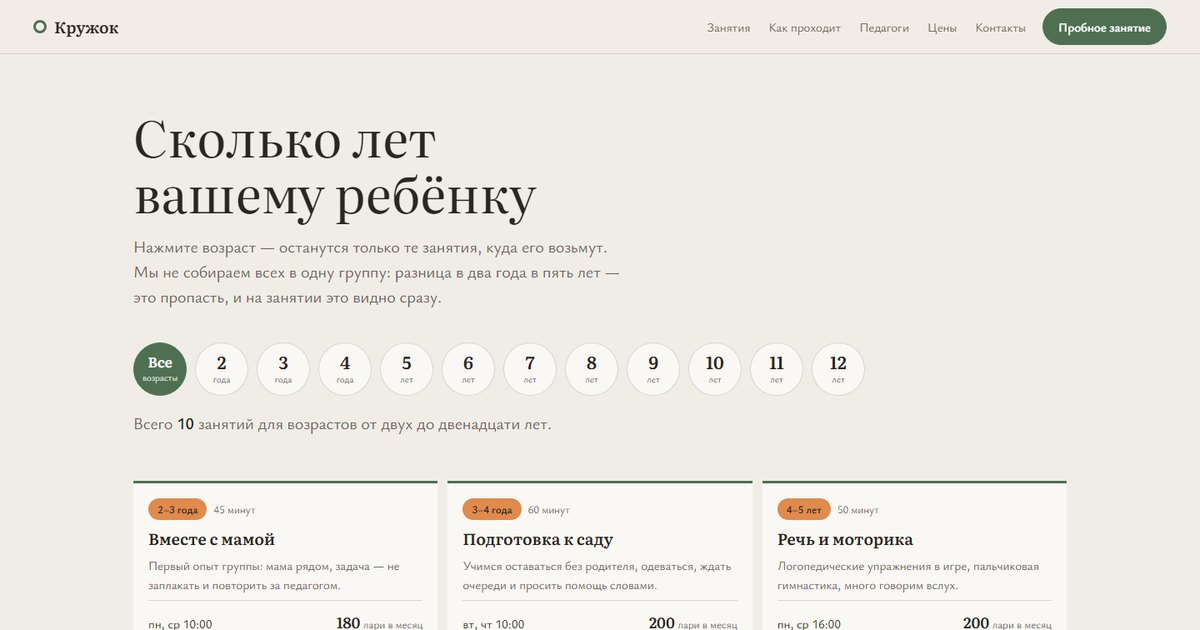
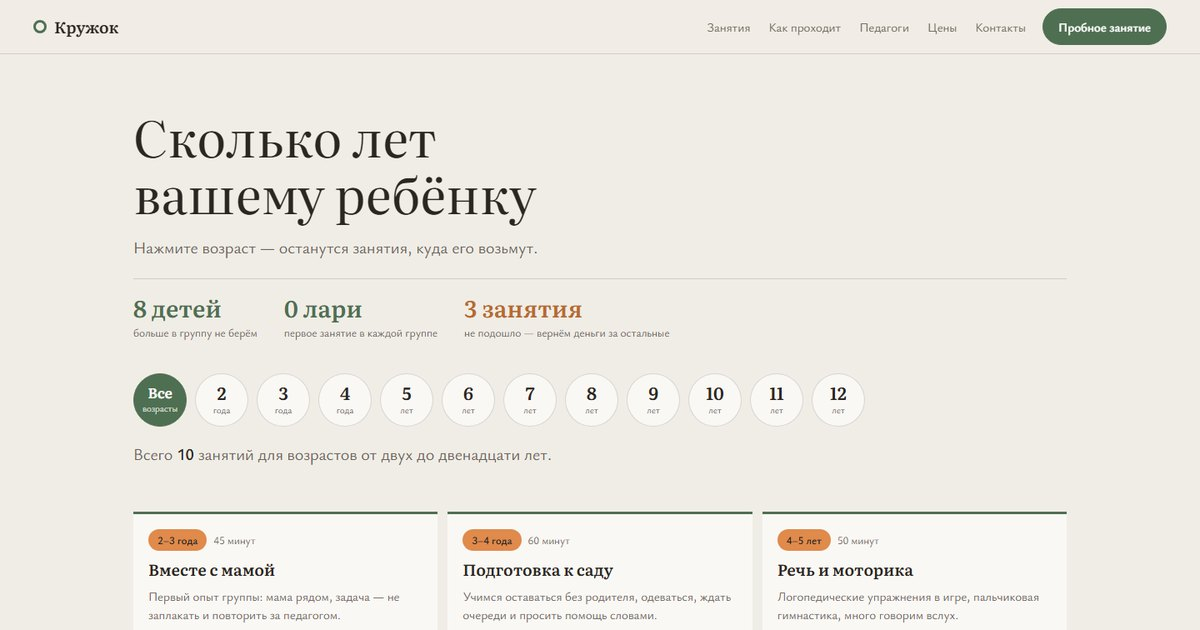
Новая подача: карточки, короче текст, движение

diff --git a/index.html b/index.html
@@ -4,7 +4,7 @@
 <meta charset="utf-8">
 <meta name="viewport" content="width=device-width, initial-scale=1, viewport-fit=cover">
 <title>Кружок — детский центр (демо open-sites.io)</title>
-<meta name="description" content="Демо-сайт студии open-sites.io: детский центр «Кружок». Выбираете возраст ребёнка — остаются только подходящие занятия с днями, временем и ценой. Бизнес вымышленный.">
+<meta name="description" content="Демо-сайт студии open-sites.io: детский центр «Кружок». Выбираете возраст ребёнка — остаются только подходящие занятия с днями, временем и ценой. ">
 <meta name="robots" content="noindex">
 <meta name="theme-color" content="#F0EDE6">
 <link rel="canonical" href="https://fr33roman.github.io/kruzhok/">
@@ -75,7 +75,7 @@ button,input,select,textarea{font:inherit;color:inherit}
   padding:10px var(--gut);background:rgba(240,237,230,.95);border-bottom:1px solid var(--line);
   backdrop-filter:blur(8px)}
 .mark{display:inline-flex;align-items:center;gap:9px;font-family:var(--disp);font-weight:600;font-size:19px;
-  text-decoration:none}
+  text-decoration:none;min-height:44px;padding:7px 0}
 .mark i{width:16px;height:16px;border:3px solid var(--moss);border-radius:50%;display:inline-block}
 .nav{display:none;gap:22px;margin-left:auto;font-size:15px;color:var(--soft)}
 .nav a{text-decoration:none}
@@ -94,6 +94,20 @@ h3{font-family:var(--disp);font-weight:600;font-size:19px;line-height:1.3}
 .hero{max-width:1200px;margin:0 auto;padding:clamp(32px,4.5vw,64px) var(--gut) 0}
 h1{font-family:var(--disp);font-weight:400;font-size:clamp(30px,4.4vw,60px);line-height:1.12;max-width:16ch}
 .hero p{margin-top:18px;font-size:clamp(17px,1.4vw,20px);line-height:1.5;max-width:58ch;color:var(--soft)}
+/* Три цифры рядом: самое важное читается за секунду */
+.trust{display:flex;flex-wrap:wrap;gap:14px 32px;margin-top:22px;padding-top:20px;border-top:1px solid var(--line)}
+.trust div{min-width:126px}
+.trust b{display:block;font-family:var(--disp);font-weight:600;font-size:28px;line-height:1;color:var(--moss)}
+.trust b.is-apricot{color:#B86A2E}
+.trust span{display:block;margin-top:7px;color:var(--soft);font-size:13.5px;line-height:1.35}
+
+/* Появление блоков: 700 мс, один раз. Без скрипта всё видно сразу. */
+.js .reveal{opacity:0;transform:translateY(24px);transition:opacity .7s ease,transform .7s ease}
+.js .reveal.in{opacity:1;transform:none}
+@media (prefers-reduced-motion:reduce){
+  .js .reveal{opacity:1;transform:none;transition:none}
+  .flow li:hover,.t:hover,.g:hover{transform:none}
+}
 
 /* ============ круги возрастов ============ */
 .ages{display:flex;flex-wrap:wrap;gap:10px;margin-top:clamp(26px,3vw,40px)}
@@ -128,36 +142,58 @@ h1{font-family:var(--disp);font-weight:400;font-size:clamp(30px,4.4vw,60px);line
 .g__p{font-family:var(--disp);font-weight:600;font-size:18px;white-space:nowrap}
 .g__p i{font-family:var(--text);font-style:normal;font-size:13px;font-weight:400;color:var(--soft)}
 .g[hidden]{display:none}
-.g__go{margin-top:10px;align-self:flex-start;min-height:40px;padding:0 16px;font-size:14px}
+.g{transition:transform .3s ease,box-shadow .3s ease}
+.g:hover{transform:translateY(-6px);box-shadow:0 18px 40px -20px rgba(42,38,34,.4)}
+.g__go{margin-top:10px;align-self:flex-start;min-height:44px;padding:0 18px;font-size:14px}
 
 /* ============ как проходит ============ */
-.flow{border-top:1px solid var(--ink);margin-top:22px}
-.flow li{padding:16px 0;border-bottom:1px solid var(--line)}
-.flow p{margin-top:5px;color:var(--soft);font-size:15px;line-height:1.55}
+.flow{display:grid;grid-template-columns:1fr;gap:14px;margin-top:22px;counter-reset:step}
+@media (min-width:640px){.flow{grid-template-columns:repeat(2,minmax(0,1fr))}}
+@media (min-width:1080px){.flow{grid-template-columns:repeat(3,minmax(0,1fr))}}
+.flow li{position:relative;background:var(--paper);border:1px solid var(--line);border-radius:14px;
+  box-shadow:0 8px 22px -14px rgba(42,38,34,.32);padding:22px 20px;
+  transition:transform .3s ease,box-shadow .3s ease}
+.flow li:hover{transform:translateY(-6px);box-shadow:0 18px 40px -20px rgba(42,38,34,.4)}
+.flow li::before{counter-increment:step;content:counter(step,decimal-leading-zero);
+  display:block;font-family:var(--disp);font-size:24px;color:var(--apricot);margin-bottom:8px;line-height:1}
+.flow p{margin-top:6px;color:var(--soft);font-size:15px;line-height:1.5}
 
 /* ============ педагоги ============ */
-.teachers{border-top:1px solid var(--ink);margin-top:22px}
-.t{display:grid;grid-template-columns:minmax(0,1fr) auto;gap:2px 16px;padding:15px 0;
-  border-bottom:1px solid var(--line);align-items:baseline}
+.teachers{display:grid;grid-template-columns:1fr;gap:14px;margin-top:22px}
+@media (min-width:620px){.teachers{grid-template-columns:repeat(2,minmax(0,1fr))}}
+@media (min-width:1080px){.teachers{grid-template-columns:repeat(5,minmax(0,1fr))}}
+.t{display:grid;gap:6px;background:var(--paper);border:1px solid var(--line);border-radius:14px;
+  box-shadow:0 8px 22px -14px rgba(42,38,34,.32);padding:20px 18px;
+  transition:transform .3s ease,box-shadow .3s ease}
+.t:hover{transform:translateY(-6px);box-shadow:0 18px 40px -20px rgba(42,38,34,.4)}
 .t__n{font-family:var(--disp);font-weight:600;font-size:clamp(20px,2.2vw,26px);line-height:1.1}
-.t__d{color:var(--soft);font-size:14px;white-space:nowrap}
-.t__s{grid-column:1/-1;color:var(--soft);font-size:15px}
-@media (min-width:760px){.t{grid-template-columns:210px minmax(0,1fr) auto}.t__s{grid-column:2/3}}
+.t__d{display:inline-block;margin-top:6px;padding:5px 11px;border-radius:999px;justify-self:start;
+  background:rgba(79,111,82,.1);color:var(--moss-d);font-size:13px;white-space:nowrap}
+.t__s{color:var(--soft);font-size:15px;line-height:1.4}
 
 /* ============ место ============ */
 .place{display:grid;grid-template-columns:1fr;gap:24px;margin-top:22px}
 @media (min-width:900px){.place{grid-template-columns:minmax(0,1fr) minmax(0,1fr);gap:40px;align-items:start}}
-.place ul{border-top:1px solid var(--ink)}
-.place li{padding:13px 0;border-bottom:1px solid var(--line);font-size:16px;line-height:1.5}
+.place ul{display:grid;gap:10px}
+.place li{position:relative;background:var(--paper);border:1px solid var(--line);border-radius:12px;
+  padding:14px 16px 14px 40px;font-size:16px;line-height:1.4}
+.place li::before{content:"";position:absolute;left:16px;top:21px;width:11px;height:2px;background:var(--apricot)}
 .place img{width:100%;border-radius:10px;background:var(--line);filter:brightness(1.05) saturate(.95)}
 .place .ph2 img{margin-top:12px;height:clamp(140px,16vw,200px);object-fit:cover}
 figcaption{margin-top:10px;color:var(--soft);font-size:13px;line-height:1.5}
 
 /* ============ цены ============ */
-.pr{border-top:1px solid var(--ink);margin-top:22px}
-.pr li{display:grid;grid-template-columns:minmax(0,1fr) auto;gap:8px 16px;padding:14px 0;
+.pr{max-width:820px;margin-top:22px;background:var(--paper);border:1px solid var(--line);
+  border-radius:16px;box-shadow:0 8px 22px -14px rgba(42,38,34,.32);overflow:hidden}
+/* Наводишь на строку — соседние гаснут: помогает не потерять нужную глазами */
+.pr:hover li{opacity:.45}
+.pr li:hover{opacity:1;background:rgba(79,111,82,.07)}
+@media (hover:none){.pr:hover li{opacity:1}}
+.pr li{display:grid;grid-template-columns:minmax(0,1fr) auto;gap:8px 16px;padding:15px 20px;
+  transition:opacity .3s ease,background .3s ease;
   border-bottom:1px solid var(--line);align-items:baseline}
-.pr span:last-child{font-weight:600;white-space:nowrap}
+.pr span:last-child{font-family:var(--disp);font-weight:600;font-size:17px;color:var(--moss-d);white-space:nowrap}
+.pr li:last-child{border-bottom:0}
 
 /* ============ форма ============ */
 .book{display:grid;grid-template-columns:1fr;gap:26px;margin-top:22px}
@@ -178,9 +214,9 @@ figcaption{margin-top:10px;color:var(--soft);font-size:13px;line-height:1.5}
 .done__b{font-family:var(--disp);font-size:clamp(22px,3vw,30px);line-height:1.2}
 .done p+p{margin-top:12px}
 .noscript{grid-column:1/-1;color:var(--soft);font-size:15px}
-.side dl{border-top:1px solid var(--ink)}
-.side div{padding:12px 0;border-bottom:1px solid var(--line)}
-.side dt{color:var(--soft);font-size:13px}
+.side dl{display:grid;gap:10px}
+.side div{background:var(--paper);border:1px solid var(--line);border-radius:12px;padding:14px 16px}
+.side dt{color:var(--moss-d);font-size:12px;letter-spacing:.1em;text-transform:uppercase}
 .side dd{margin-top:3px;font-size:16px;line-height:1.4}
 
 /* ============ подвал ============ */
@@ -212,8 +248,13 @@ figcaption{margin-top:10px;color:var(--soft);font-size:13px;line-height:1.5}
   <!-- ============ 1. герой и фильтр ============ -->
   <section class="hero" aria-labelledby="h1">
     <h1 id="h1">Сколько лет вашему ребёнку</h1>
-    <p>Нажмите возраст — останутся только те занятия, куда его возьмут. Мы не собираем всех
-      в одну группу: разница в два года в пять лет — это пропасть, и на занятии это видно сразу.</p>
+    <p>Нажмите возраст — останутся занятия, куда его возьмут.</p>
+
+    <div class="trust">
+      <div><b>8 детей</b><span>больше в группу не берём</span></div>
+      <div><b>0 лари</b><span>первое занятие в каждой группе</span></div>
+      <div><b class="is-apricot">3 занятия</b><span>не подошло — вернём деньги за остальные</span></div>
+    </div>
 
     <div class="ages" id="ages" role="group" aria-label="Возраст ребёнка"></div>
     <p class="count" id="count"></p>
@@ -289,26 +330,25 @@ figcaption{margin-top:10px;color:var(--soft);font-size:13px;line-height:1.5}
   </section>
 
   <!-- ============ 3. как проходит ============ -->
-  <section class="sec" id="kak" aria-labelledby="h-k">
+  <section class="sec reveal" id="kak" aria-labelledby="h-k">
     <div class="sec__in">
-      <h2 id="h-k">Как проходит занятие</h2>
+      <h2 id="h-k">Один урок по шагам</h2>
       <ul class="flow">
         <li><h3>Группа до восьми человек</h3><p>Больше — и педагог не успевает подойти к каждому.</p></li>
-        <li><h3>Первые пять минут — круг</h3><p>Здороваемся, говорим, кто как спал и что случилось.
-          Это не формальность: так ребёнок переключается на занятие.</p></li>
+        <li><h3>Первые пять минут — круг</h3><p>Здороваемся и говорим, кто как спал. Так ребёнок переключается.</p></li>
         <li><h3>Середина — работа</h3><p>Двадцать-тридцать минут, в которые собственно учатся.</p></li>
         <li><h3>Последние десять минут — свободное</h3><p>Дорисовать, доиграть, показать родителю.</p></li>
         <li><h3>Родитель ждёт в холле</h3><p>С двух до трёх лет — наоборот, мама на занятии.</p></li>
-        <li><h3>После занятия педагог говорит одну фразу о вашем ребёнке</h3>
-          <p>Не отчёт, а одно наблюдение. Отчёты никто не читает, а наблюдение запоминается.</p></li>
+        <li><h3>После занятия — фраза о вашем ребёнке</h3>
+          <p>Одно наблюдение вместо отчёта: отчёты никто не читает.</p></li>
       </ul>
     </div>
   </section>
 
   <!-- ============ 4. педагоги ============ -->
-  <section class="sec" id="pedagogi" aria-labelledby="h-p">
+  <section class="sec reveal" id="pedagogi" aria-labelledby="h-p">
     <div class="sec__in">
-      <h2 id="h-p">Кто ведёт</h2>
+      <h2 id="h-p">Педагоги</h2>
       <ul class="teachers">
         <li class="t"><span class="t__n">Ирина</span><span class="t__s">подготовка к школе, чтение и счёт</span><span class="t__d">пн, вт, ср, чт, сб</span></li>
         <li class="t"><span class="t__n">Ольга</span><span class="t__s">речь и моторика, вместе с мамой</span><span class="t__d">пн, ср, чт</span></li>
@@ -316,13 +356,11 @@ figcaption{margin-top:10px;color:var(--soft);font-size:13px;line-height:1.5}
         <li class="t"><span class="t__n">Антон</span><span class="t__s">робототехника, шахматы</span><span class="t__d">вт, пт, сб</span></li>
         <li class="t"><span class="t__n">Кетеван</span><span class="t__s">английский</span><span class="t__d">вт, чт</span></li>
       </ul>
-      <p class="note" style="margin-top:18px">На сайте вашего центра здесь будут фотографии педагогов
-        и их образование. В демо мы не подставляем чужие лица.</p>
     </div>
   </section>
 
   <!-- ============ 5. место ============ -->
-  <section class="sec" id="mesto" aria-labelledby="h-m">
+  <section class="sec reveal" id="mesto" aria-labelledby="h-m">
     <div class="sec__in">
       <div class="place">
         <div>
@@ -338,17 +376,15 @@ figcaption{margin-top:10px;color:var(--soft);font-size:13px;line-height:1.5}
         <figure>
           <img src="https://images.unsplash.com/photo-1722622102266-de29b50f4d3d?auto=format&fit=crop&w=1100&q=76" alt="Детский стул у стены с деревянными крючками" width="1100" height="733" loading="lazy" decoding="async">
           <div class="ph2"><img src="https://images.unsplash.com/photo-1709709309456-ce2c6daff9af?auto=format&fit=crop&w=1100&q=76" alt="Детские стулья в тёплом свете" width="1100" height="733" loading="lazy" decoding="async"></div>
-          <figcaption>Кадры из фотобанка, подобраны под концепт; детей в кадре нет намеренно.
-            На сайте вашего центра здесь будет своя съёмка комнат.</figcaption>
         </figure>
       </div>
     </div>
   </section>
 
   <!-- ============ 6. цены ============ -->
-  <section class="sec" id="tseny" aria-labelledby="h-t">
+  <section class="sec reveal" id="tseny" aria-labelledby="h-t">
     <div class="sec__in">
-      <h2 id="h-t">Цены</h2>
+      <h2 id="h-t">Цены и скидки</h2>
       <ul class="pr">
         <li><span>Пробное занятие</span><span>бесплатно, одно в каждой группе</span></li>
         <li><span>Абонемент на восемь занятий</span><span>180–280 лари, в карточке группы</span></li>
@@ -356,13 +392,12 @@ figcaption{margin-top:10px;color:var(--soft);font-size:13px;line-height:1.5}
         <li><span>Второй ребёнок из семьи</span><span>минус 15 процентов</span></li>
         <li><span>Пропуски по болезни</span><span>переносим, до двух в месяц, без справки</span></li>
       </ul>
-      <p class="note" style="margin-top:20px">Если после трёх занятий видно, что группа не подошла,
-        вернём деньги за оставшиеся. Такое бывает, и это не повод держать ребёнка силой.</p>
+      <p class="note" style="margin-top:20px">Не подошла группа за три занятия — вернём деньги за оставшиеся.</p>
     </div>
   </section>
 
   <!-- ============ 7. запись ============ -->
-  <section class="sec" id="zapis" aria-labelledby="h-b">
+  <section class="sec reveal" id="zapis" aria-labelledby="h-b">
     <div class="sec__in">
       <div class="book">
         <div>
@@ -392,15 +427,11 @@ figcaption{margin-top:10px;color:var(--soft);font-size:13px;line-height:1.5}
               <button class="btn" type="submit" id="send" disabled>Записаться на пробное</button>
               <p class="send__hint" id="send-hint">Кнопка заработает, когда отметите согласие.</p>
             </div>
-            <noscript><p class="noscript">Это демо-сайт, форма не отправляет данные.
-              Сайт для своего центра: <a class="link" href="https://t.me/open_sites">t.me/open_sites</a></p></noscript>
           </form>
 
           <div class="done" id="done" role="status" tabindex="-1" hidden>
-            <p class="done__b">Это демо-сайт.</p>
-            <p>Заявка никуда не ушла — форма показывает, как это будет выглядеть у вас.</p>
-            <p>Хотите такой же сайт для своего центра?
-              <a class="link" href="https://t.me/open_sites" target="_blank" rel="noopener">t.me/open_sites</a></p>
+            <p class="done__b">Записали.</p>
+            <p>Педагог позвонит сегодня и предложит день пробного занятия.</p>
             <p><button class="btn btn--line" type="button" id="again" style="margin-top:6px">Вернуться к форме</button></p>
           </div>
         </div>
@@ -425,16 +456,12 @@ figcaption{margin-top:10px;color:var(--soft);font-size:13px;line-height:1.5}
       <p class="note" style="margin-top:8px">Детский центр.<br>Улица Садовая, 14 · пн–сб 9:00–20:00</p>
     </div>
     <div>
-      <p class="plate">Демонстрационная работа студии <span class="nw">open-sites.io</span>.
-        Бизнес вымышленный, цены — ориентир по рынку.
-        <a class="link" href="https://t.me/open_sites" target="_blank" rel="noopener">Сайт для своего центра: t.me/open_sites</a></p>
-      <p class="credits" style="margin-top:14px">Фотографии из фотобанка Unsplash, подобраны под концепт.</p>
     </div>
   </div>
 </footer>
 
 <script type="application/ld+json">
-{"@context":"https://schema.org","@type":"ChildCare","name":"Кружок","description":"Детский центр развивающих занятий. Демонстрационный сайт студии open-sites.io, бизнес вымышленный.","url":"https://fr33roman.github.io/kruzhok/","image":"https://fr33roman.github.io/kruzhok/og.jpg","priceRange":"40–280 GEL","address":{"@type":"PostalAddress","streetAddress":"улица Садовая, 14"},"openingHours":"Mo-Sa 09:00-20:00"}
+{"@context":"https://schema.org","@type":"ChildCare","name":"Кружок","description":"Детский центр: подготовка к школе, речь и моторика, рисование, робототехника, английский.","url":"https://fr33roman.github.io/kruzhok/","image":"https://fr33roman.github.io/kruzhok/og.jpg","priceRange":"40–280 GEL","address":{"@type":"PostalAddress","streetAddress":"улица Садовая, 14"},"openingHours":"Mo-Sa 09:00-20:00"}
 </script>
 
 <script>
@@ -500,6 +527,21 @@ figcaption{margin-top:10px;color:var(--soft);font-size:13px;line-height:1.5}
         plural(shown, 'занятие', 'занятия', 'занятий') + ' из ' + groups.length + '.';
   }
   pick('all');
+
+  /* ---- появление блоков при прокрутке ---- */
+  var reduce = !!(window.matchMedia && window.matchMedia('(prefers-reduced-motion: reduce)').matches);
+  var revs = [].slice.call(document.querySelectorAll('.reveal'));
+  if (reduce || !('IntersectionObserver' in window)) {
+    revs.forEach(function (el) { el.classList.add('in'); });
+  } else {
+    var io = new IntersectionObserver(function (es) {
+      es.forEach(function (e) {
+        if (e.isIntersecting) { e.target.classList.add('in'); io.unobserve(e.target); }
+      });
+    }, { threshold: .12, rootMargin: '0px 0px -40px 0px' });
+    revs.forEach(function (el) { io.observe(el); });
+    setTimeout(function () { revs.forEach(function (el) { el.classList.add('in'); }); }, 1500);
+  }
 
   /* ---- форма ---- */
   var form = document.getElementById('form');
